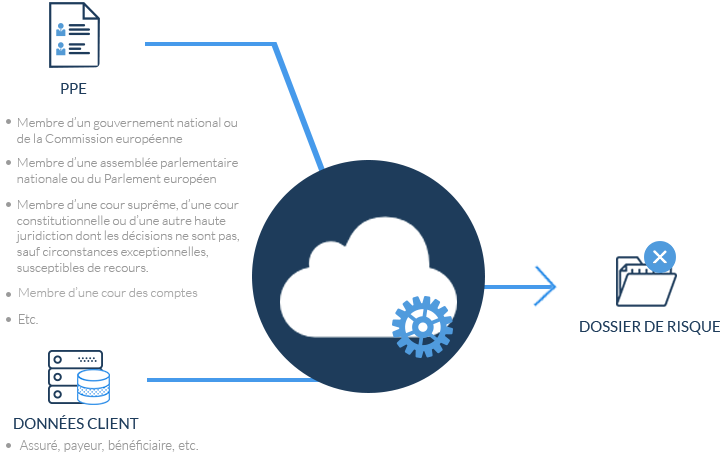
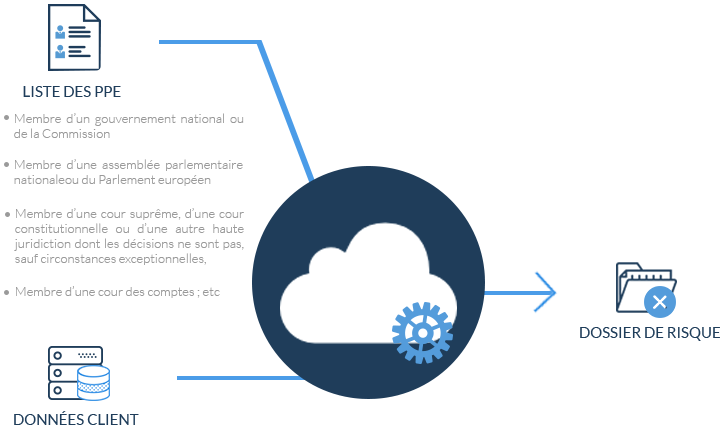
add img schemas

Changed region(s): [[0.0, 0.0, 0.7922, 0.935], [0.7922, 0.5128, 1.0, 0.7842], [0.0, 0.7541, 0.2742, 0.9954]]

diff --git a/sanctions-lists.html b/sanctions-lists.html
@@ -228,7 +228,7 @@
                 </ul>
             </div>
 
-            <img src="img/schema.png" alt="Sanction List Schema" style="width: auto; max-width: 100%">
+            <img src="img/sanction_list_schema.png" alt="Sanction List Schema" style="width: auto; max-width: 100%">
 
             <div class="features-list">
                 <div class="features-list-feature">

diff --git a/ppe.html b/ppe.html
@@ -288,7 +288,7 @@
                  </ul>-->
             </div>
 
-            <img src="img/schema.png" alt="Sanction List Schema" style="width: auto;max-width: 100%">
+            <img src="img/ppe_schema.png" alt="PPE Schema" style="width: auto;max-width: 100%">
 
             <div class="features-list">
                 <div class="features-list-feature">
